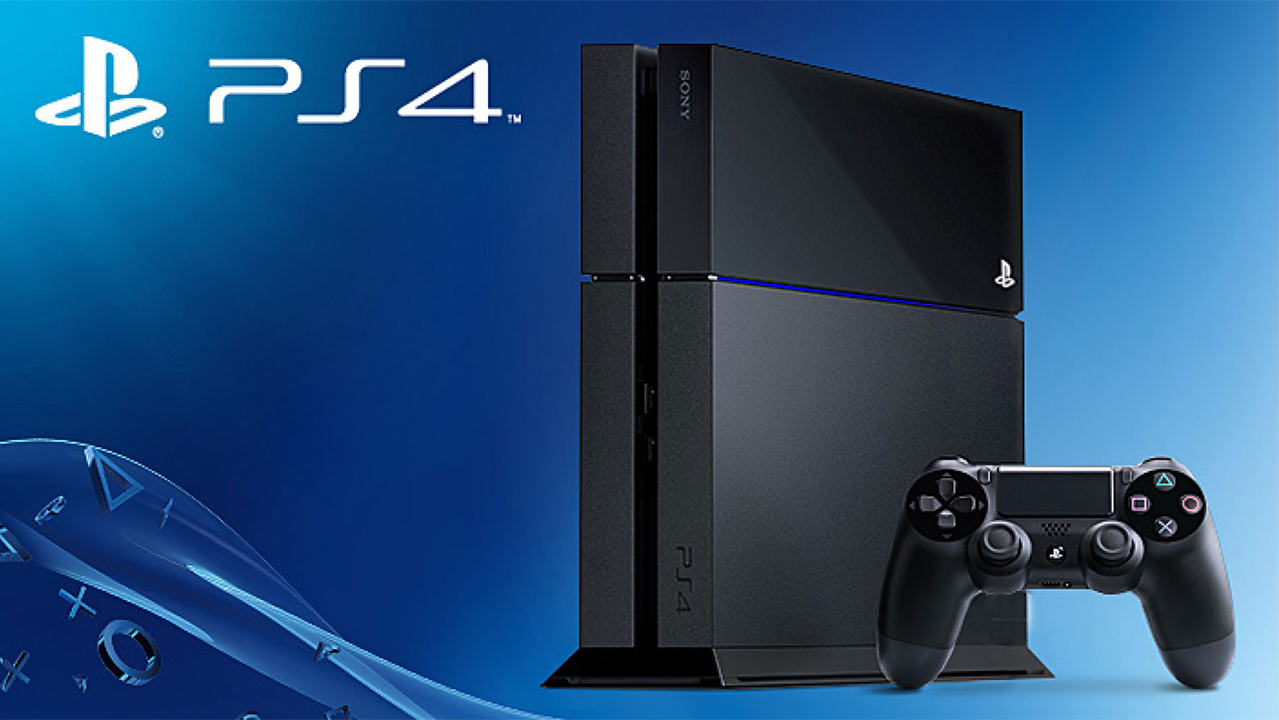
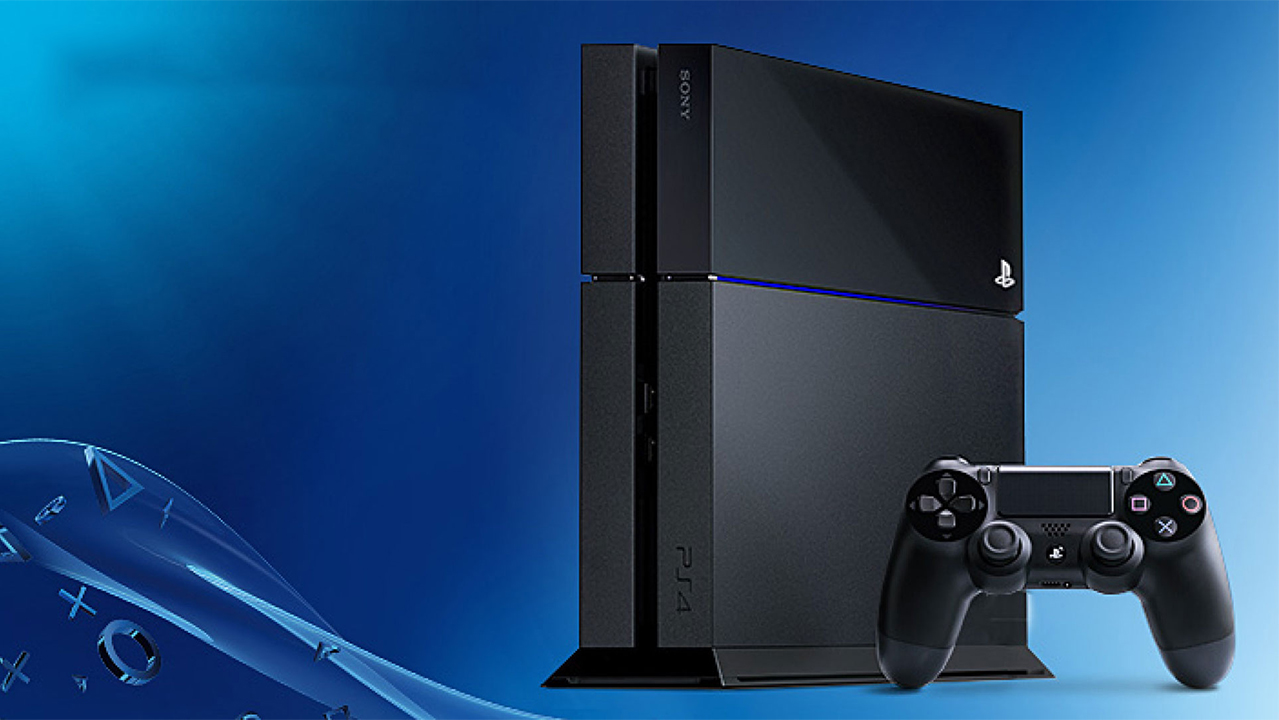
pequeños as¡justes a catalogo

Changed region(s): [[0.0305, 0.0306, 0.4269, 0.2139]]

diff --git a/index.html b/index.html
@@ -92,7 +92,7 @@
 
   <section class="container">
     <section class="row row-ps4">
-      <section class="col-lg-3 info-ps4">
+      <section class="col-lg-3 ">
         <h1 class="titles col-right-border">PLAY STATION 4</h1>
       </section>
       <section class="col-lg-9 info-ps4">
@@ -107,8 +107,8 @@
       </section>
     </section>
   </section>
-  <!-- termina sección Magenta -->    
- 
+  <!-- termina sección Magenta -->
+
     <footer>
        <section id="formulario">
          <div class="container col-md-12">
@@ -149,7 +149,7 @@
              <p class="col-lg-3 text-center"><small>Visa</small></p>
              <p class="col-lg-3 text-center"><small>Pay Pal</small></p>
              <p class="col-lg-3 text-center"><small>Master Card</small></p>
-        
+
             <hr class="col-lg-12  text-color">
             <div class=" bg-color">
               <p class="col-lg-3 text-center text-color">Nuestras redes Sociales</p>
@@ -200,7 +200,7 @@
          	        <li><a href=""><small>Login</small></a></li>
          		 	<li><a href=""><small>Carrito</small></a></li>
          	      </ul>
-         		
+
          	</div>
          	<div class="col-lg-3">
          		<h5 class="col-lg-8">CONTACTOS</h5>
@@ -216,7 +216,7 @@
        	</div>
        </section>
 
-       
+
     </footer>
     <script src="https://use.fontawesome.com/7135c2bb8e.js"></script>
     <script src="https://ajax.googleapis.com/ajax/libs/jquery/1.12.4/jquery.min.js"></script>

diff --git a/assets/css/catalogo.css b/assets/css/catalogo.css
@@ -2,21 +2,21 @@
   background-image: url(../images/Nintendo_Switch.jpg);
   background-repeat: no-repeat;
   background-size: cover;
-  height: 600px;
+  height: 700px;
 }
 
 .row-xbox-one {
   background-image: url(../images/xbox_one.jpg);
   background-repeat: no-repeat;
   background-size: cover;
-  height: 600px;
+  height: 700px;
 }
 
 .row-ps4 {
   background-image: url(../images/ps4.jpg);
   background-repeat: no-repeat;
   background-size: cover;
-  height: 600px;
+  height: 700px;
 }
 
 .titles {
@@ -45,5 +45,5 @@
 }
 
 .info-ps4 {
-  padding: 200px 0 0 20px;
+  padding: 40px 0 0 20px;
 }
